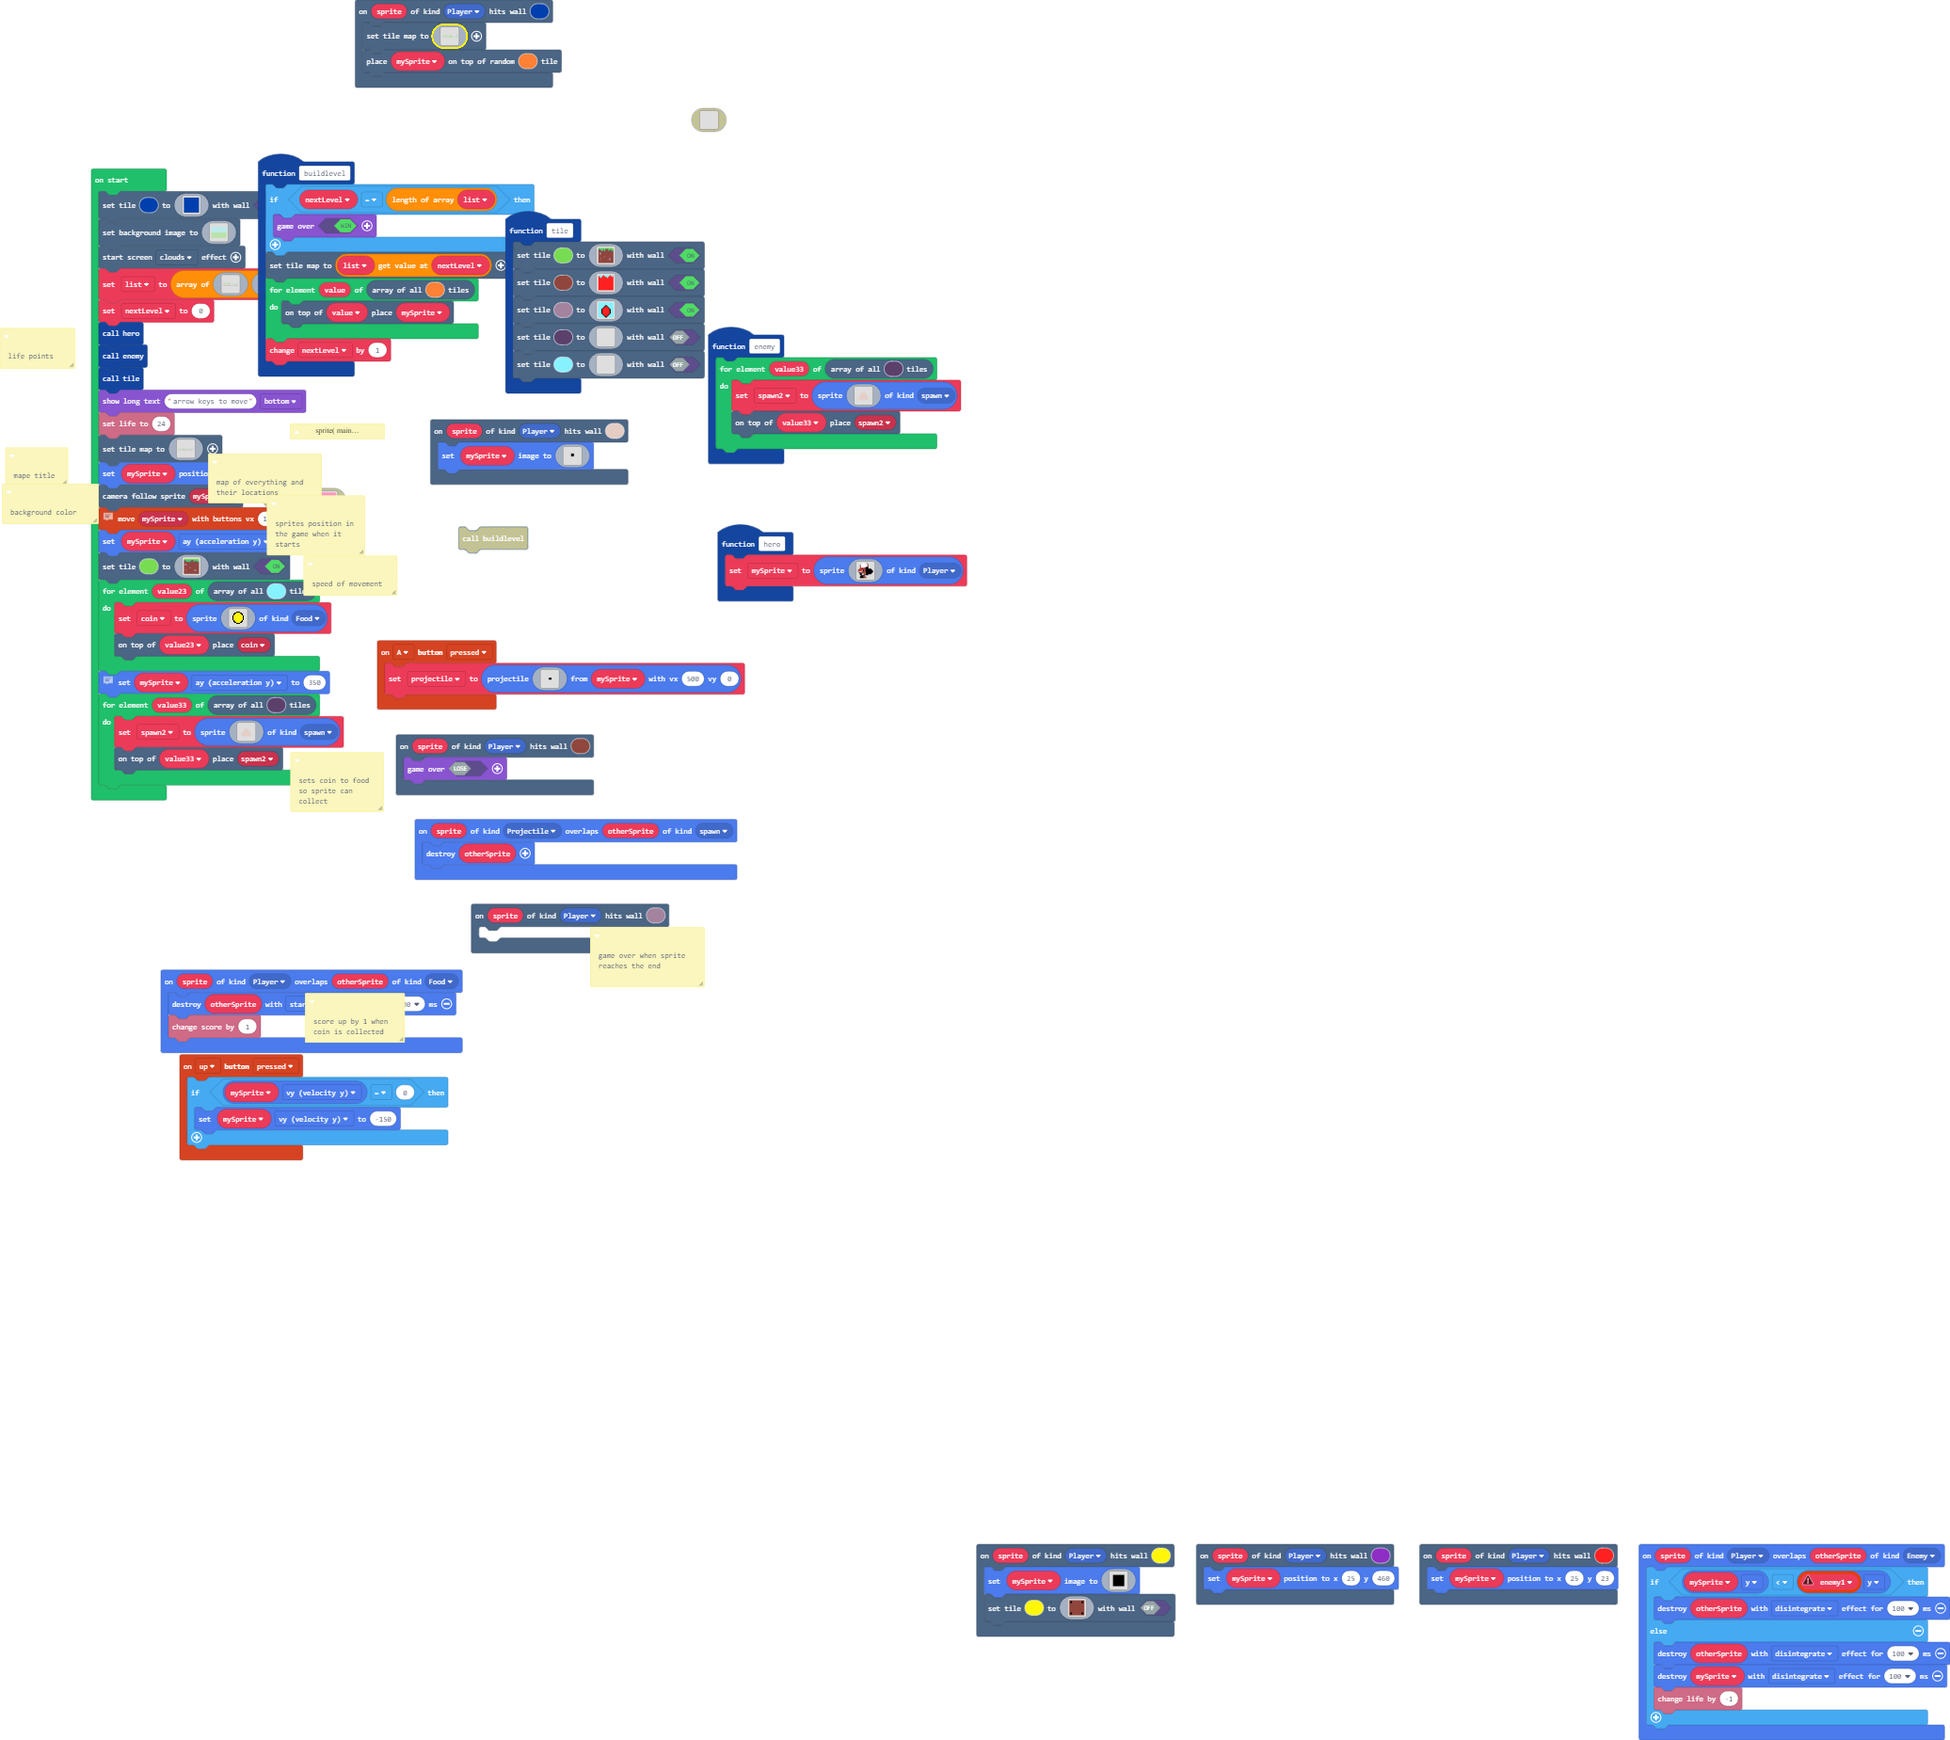
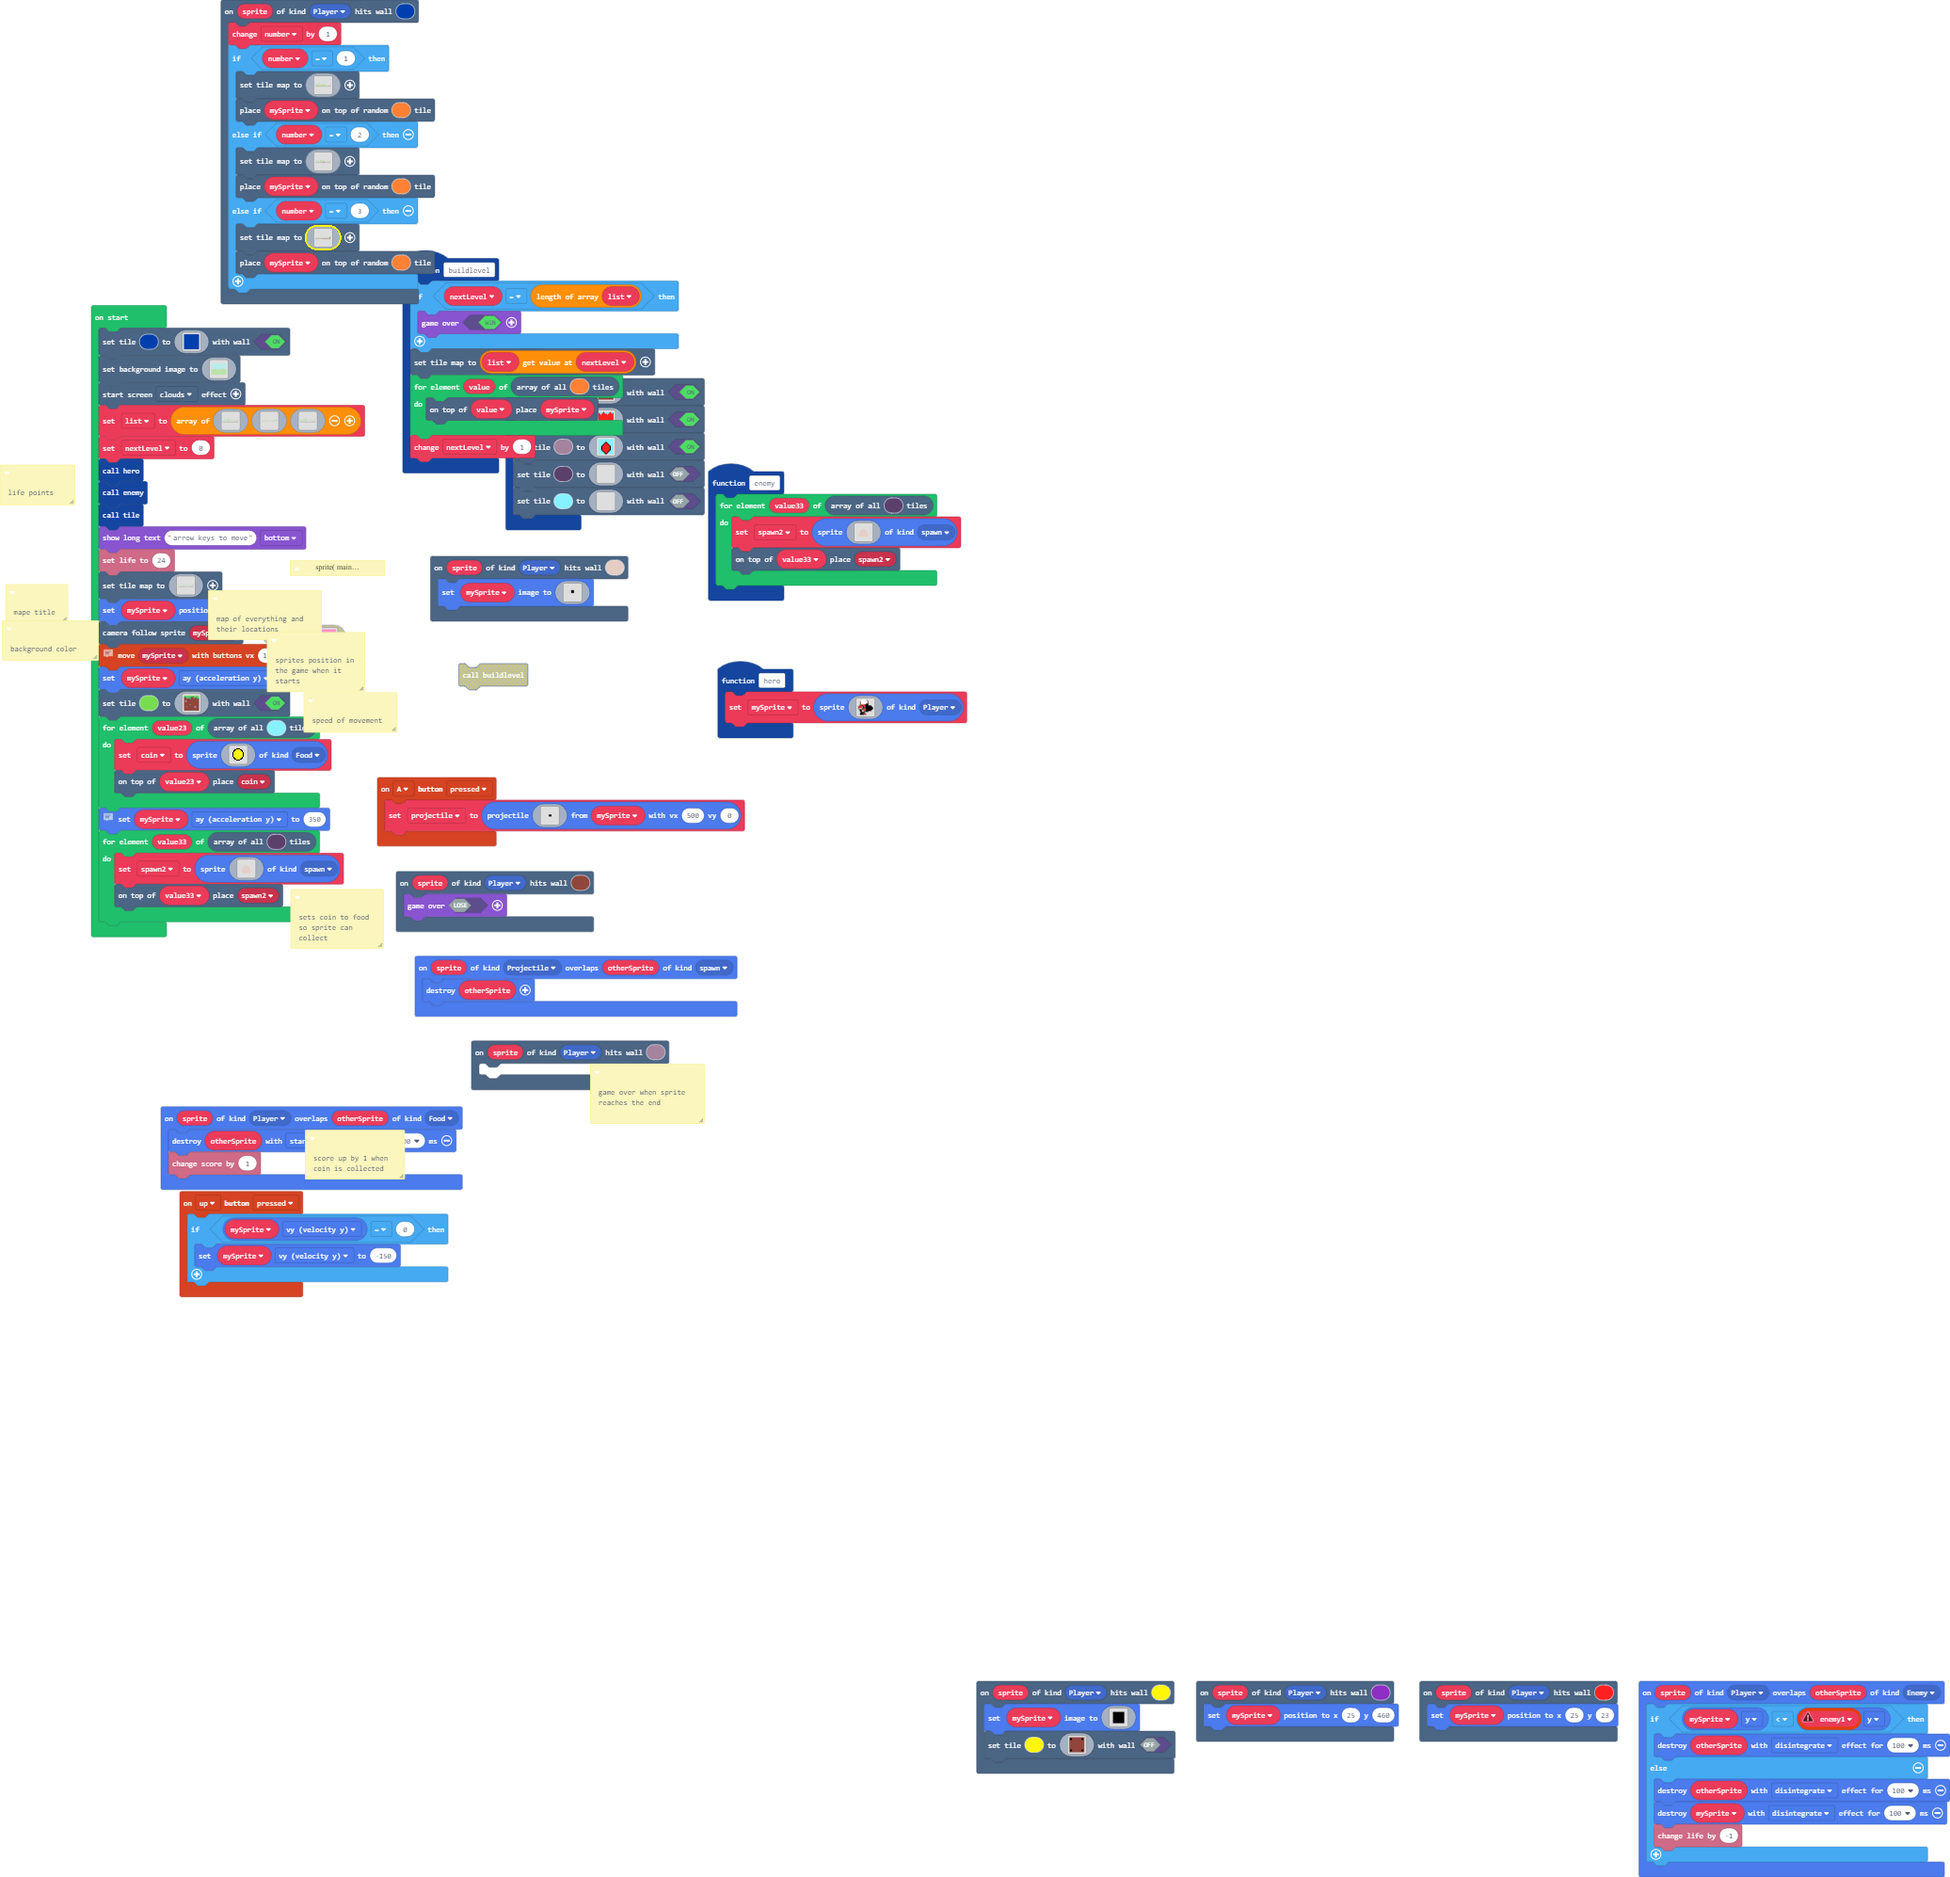
Update main.blocks, main.ts

Changed region(s): [[0.0, 0.0, 0.4942, 0.709], [0.4942, 0.8632, 1.0, 0.9865], [0.3398, 0.0617, 0.3707, 0.0925]]

diff --git a/main.ts b/main.ts
@@ -182,7 +182,9 @@ sprites.onOverlap(SpriteKind.Player, SpriteKind.Food, function (sprite, otherSpr
     info.changeScoreBy(1)
 })
 scene.onHitTile(SpriteKind.Player, 8, function (sprite) {
-    scene.setTileMap(img`
+    number += 1
+    if (number == 1) {
+        scene.setTileMap(img`
 . . . . . . . . . . . . . . . . . . . . . . . . . . . . . . . . . . . . . . . . . . . . . . . . . . . . . . . . . . . 7 
 . . . . . . . . . . . . . . . . . . . . . . . . . . . . . . . . . . . . . . . . . . . . . . . . . . . . . . . . . . . 7 
 . . . . . . . . . . . . . . . 7 7 . . . . . . . . . . . . . . . . . . . . . . . . . . . . . . . . . . . . . . . . . . 7 
@@ -190,14 +192,49 @@ scene.onHitTile(SpriteKind.Player, 8, function (sprite) {
 . . . . . . . . . . 7 7 7 . . . . . . . . . . . 7 7 7 . . . . . 7 7 . 7 7 . . . . . . . . . . . . . . . . . . . . . . 7 
 . . . . . 7 7 7 7 7 7 . . . . . . . 7 . . 7 . . 7 . 7 7 . . . . 7 . . . 7 . . . . . . . . . . . . . . . . . . . . . . 7 
 . 4 . . 7 7 . . . . . . . . 7 7 7 7 7 . . 7 7 7 7 . . 7 . . . 7 7 . . . 7 7 7 . . . . . . . . . . . . . . . . . . . . 7 
-. 7 . . 7 . . . . . . . . 7 . 7 . . . 7 . . 7 7 . . . 7 7 . 7 7 . . . 7 7 . 7 . . . . . . . . . . . . . . . . . . . . 7 
-. 7 . . 7 . . . . . . . 7 . . 7 . . . . 7 . . . . . . . . 7 7 . . . 7 . 7 7 7 7 . . . . . . . . . . . . . . . . 8 . . 7 
-. 7 7 7 7 . . . . . . 7 . . . 7 . . . . . 7 . . . . . . . . . . . . . . 7 7 7 7 7 7 . . . . . . . . . . . . . . 8 . . 7 
-. . . . 7 7 7 7 7 7 7 7 7 7 7 7 7 7 7 . . . . 7 . . . . . . . . . 7 . . 7 7 7 7 7 . 7 . . . 7 . . . 7 7 7 7 7 7 7 . . 7 
-. . . . . . . . . . . . . . . . . . 7 7 . . . . . 7 . . . . . . . . . 7 7 7 7 7 7 . . 7 . 7 . 7 . 7 . . . . . . 7 . . 7 
-. . . . . . . . . . . . . . . . . . . . 7 7 7 7 7 7 7 7 7 7 7 7 7 7 7 7 7 7 7 7 7 . . . 7 . . . 7 . . . . . . . 7 7 7 7 
+. 7 7 . 7 . . . . . . . . 7 . 7 . . . 7 . . 7 7 . . . 7 7 . 7 7 . . . 7 7 . 7 . . . . . . . . . . . . . . . . . . . . 7 
+. 7 e e 7 . . . . . . . 7 . . 7 . . . . 7 . . . . . . . . 7 7 . . . 7 . 7 7 7 7 . . . . . . . . . . . . . . . . 8 . . 7 
+. 7 7 7 7 . . e e e . 7 . . . 7 . . . . . 7 . . . . . . . . . . . . . . 7 7 7 7 7 7 . . . . . . . . . . . . . . 8 . . 7 
+. . . . 7 7 7 7 7 7 7 7 7 7 7 7 7 7 . . . . . 7 . . . . . . . . . 7 . . 7 7 7 7 7 . 7 . . . 7 . . . 7 7 7 7 7 7 7 e e 7 
+. . . . . . . . . . . . . . . . . . 7 . e e e e e 7 e e e e e e e e e 7 7 7 7 7 7 e . 7 . 7 . 7 . 7 . . . . . . 7 e e 7 
+e e e e e e e e e e e e e e e e e e e e 7 7 7 7 7 7 7 7 7 7 7 7 7 7 7 7 7 7 7 7 7 e e e e e e e 7 e e e e e e e 7 7 7 7 
 `)
-    scene.placeOnRandomTile(mySprite, 4)
+        scene.placeOnRandomTile(mySprite, 4)
+    } else if (number == 2) {
+        scene.setTileMap(img`
+. . . . . . . . . . . . . . . . . . . . . . . . . . . . . . . . . . . . . . . . . . . . . . . . . . . . . . . . . . . . 
+. . . . . . . . . . . . . . . . . . . . . . . . . . . . . . . . . . . . . . . . . . . . . . . . . . . . . . . . . . . . 
+. . . . . . . . . . . 7 7 . 7 7 . 7 . 7 7 7 . 7 7 . 7 7 7 . . . . . . . . . . . . . . . . . . . . . . . . . . . . . . . 
+. . . . . . 7 7 . 7 . 7 . . . . . . . . . . . . . . . . . . 7 . . . . . . . . . . . . . . . . . . . . . . . . . . . 8 . 
+. . . . . 7 . . . . . . 9 . . . . . . c . . . . . 9 . . . 7 7 7 . 9 9 . . . . . . . . . . 9 9 9 . . . . . . . . . . 8 . 
+. . 4 . . 7 . . 9 . . . . . 9 . . 7 7 7 7 7 . . 7 7 7 . 7 . 7 . 7 . . . . . 9 . 7 9 9 9 7 . 9 . . . . . . . . 7 . . 7 . 
+. . . . 7 . 9 . . . 7 . . . 7 . . . . . . . . . . . . . . . 7 . . . . c . . . . . 7 . 7 . . . . . . . . 7 . . . . . . . 
+. . . c . . 7 . . . . . . . . . . . . 9 9 . . . c . . 9 . . 7 . 7 . . 7 . . 7 . . . 7 . . . . . . 7 . . . . . . . . . . 
+. 7 7 7 . . . . . . . c . . . . . . . c c . . . 7 . . 7 . . 7 . . . . . . . . . . . . . . . 7 . . . . . . . 7 . c . 7 . 
+. . . . 7 7 . . . . . 7 . . 7 . . . 7 7 7 7 . . . . . . e e 7 e e e e . . . . . . . . . . c . . . . . . c . . . 7 . . . 
+. . . . . . 7 . . . . . . . . . . . . . . . . . . . e e e . 7 . . . e e . . . . . . . . . 7 . 7 . . 7 . 7 . . . . . . . 
+. . . . . . . . . 7 . . . . . . . . . . . . . . . e e . . . 7 . . . . e e e . . . . . . . . . . . . . . . . . . . . . . 
+e e e e e e e e e e e e e e e e e e e e e e e e e e e e e e e e e e e e e e e e e e e e e e e e e e e e e e e e e e e e 
+`)
+        scene.placeOnRandomTile(mySprite, 4)
+    } else if (number == 3) {
+        scene.setTileMap(img`
+. . . . . . . . . . . . . . . . . . . . . . . . . . . . . . . . . . . . . . . . . . . . . . . . . . . . . . . . . . . . 
+. . . . . . . . . . . . . . . . . . . . . . . . . . . . . . . . . . . . . . . . . . . . . . . . . . . . . . . . . . . . 
+. . . . . . . . . . . . . . . . . . . . . . . . . . . . . . . . . . . . . . . . . . . . . . . . . . . . . . . . . . . . 
+. . . . . . . . . . . . . . . . . . . . . . . . . . . . . . . . . . . . . . . . . . . . . . . . . . . . . . . . . . . . 
+. . . . . . . . . . . . . . . . . . . . . . . . . . . . . . . . . . . . . . . . . . . . . . . . . . . . . . . . . . . . 
+. . . . . . . . . . . . . . . . . . . . . . . . . . . . . . . . . . . . . . . . . . . . . . . . . . . . . . . . 8 8 . e 
+. . . . . . . . . . 7 . . 7 . . . . . . . . . . . . . . . . . . . . . . . . . 7 . . 7 . . . . . . . . . . . . . 8 8 e e 
+. . . . . . . . . 7 . . . . 7 7 7 7 7 7 . . 7 7 7 7 7 7 7 7 . . . . . . . . 7 . 7 . . 7 7 7 7 7 7 . . 7 . . 7 7 7 . e e 
+. . . . . 7 7 7 7 . . 7 . . . . . . . 7 . 7 . . . . . . . . 7 . . . . . . 7 . . . 7 7 7 . . . . 7 7 7 7 7 7 7 . . e e e 
+. . 4 . 7 7 . . . . . 7 . . . . . . . 7 7 7 . . . . . . . . . 7 . . 7 . . . . . . . . . . . . . . . . . . . . e e e e e 
+. 7 7 7 . . . . . . 7 . 7 . . . . . . . . . . . . . . . . . . . e e . . 7 . . . . . . . . . . . . . . . . e e e e e e e 
+e e e . . . . . . 7 . . . 7 . 7 . 7 . . . . . . . . e e e e e e e e e e e e e e e e e e e e e e e e e e . e e e e e e e 
+e e e e e e e e e e e e e e e e e e e e e e e e e e e e e e e e e e e e e e e e e e e e e e e e e e e e e e e e e e e e 
+`)
+        scene.placeOnRandomTile(mySprite, 4)
+    }
 })
 scene.onHitTile(SpriteKind.Player, 5, function (sprite) {
     mySprite.setImage(img`
@@ -331,6 +368,7 @@ controller.up.onEvent(ControllerButtonEvent.Pressed, function () {
  * sets coin to food so sprite can collect
  */
 let projectile: Sprite = null
+let number = 0
 let spawn2: Sprite = null
 let coin: Sprite = null
 let mySprite: Sprite = null
@@ -479,17 +517,17 @@ scene.setBackgroundImage(img`
 effects.clouds.startScreenEffect()
 list = [img`
 . . . . . . . . . . . . . . . . . . . . . . . . . . . . . . . . . . . . . . . . . . . . . . . . . . . . . . . . . . . . 
-. . . . . . . . . . . . . . . . . . . . . . . . . . . . . . . . . . . . . . . . . . . . . . . . . . . . . . . . . . . . 
-. . . . . . . . . . . 7 7 . 7 7 . 7 . 7 7 7 . 7 7 . 7 7 7 . . . . . . . . . . . . . . . . . . . . . . . . . . . . . . . 
-. . . . . . 7 7 . 7 . 7 . . . . . . . . . . . . . . . . . . . . . . . . . . . . . . . . . . . . . . . . . . . . . . 8 . 
-. . . . . 7 . . . . . . 9 . . . . . . c . . . . . 9 . . . . . . . 9 9 . . . . . . . . . . 9 9 9 . . . . . . . . . . 8 . 
-. . 4 . . 7 . . 9 . . . . . 9 . . 7 7 7 7 7 . . 7 7 7 . . . . . . . . . . . 9 . 7 9 9 9 7 . 9 . . . . . . . . 7 . . 7 . 
-. . . . 7 . 9 . . . 7 . . . 7 . . . . . . . . . . . . . . . . . . . . c . . . . . 7 . 7 . . . . . . . . 7 . . . . . . . 
+. . . . . . . . . . . . . . . . . . . . . . . . . . . . . . 7 . . . . . . . . . . . . . . . . . . . . . . . . . . . . . 
+. . . . . . . . . . . 7 7 . 7 7 . 7 . 7 7 7 . 7 7 . 7 7 7 . 7 . . . . . . . . . . . . . . . . . . . . . . . . . . . . . 
+. . . . . . 7 7 . 7 . 7 . . . . . . . . . . . . . . . . . . 7 . . . . . . . . . . . . . . . . . . . . . . . . . . . 8 . 
+. . . . . 7 . . . . . . 9 . . . . . . c . . . . . 9 . . . . 7 . . 9 9 . . . . . . . . . . 9 9 9 . . . . . . . . . . 8 . 
+. . 4 . . 7 . . 9 . . . . . 9 . . 7 7 7 7 7 . . 7 7 7 . . . 7 . . . . . . . 9 . 7 9 9 9 7 . 9 . . . . . . . . 7 . . 7 . 
+. . . . 7 . 9 . . . 7 . . . 7 . . . . . . . . . . . . . . . 7 . . . . c . . . . . 7 . 7 . . . . . . . . 7 . . . . . . . 
 . . . c . . 7 . . . . . . . . . . . . 9 9 . . . c . . 9 . . 7 . 7 . . 7 . . 7 . . . 7 . . . . . . 7 . . . . . . . . . . 
-. 7 7 7 . . . . . . . c . . . . . . . c c . . . 7 . . 7 . . . . . . . . . . . . . . . . . . 7 . . . . . . . 7 . c . 7 . 
-. . . . 7 7 . . . . . 7 . . 7 . . . 7 7 7 7 . . . . . . . . . . . . . . . . . . . . . . . c . . . . . . c . . . 7 . . . 
-. . . . . . 7 . . . . . . . . . . . . . . . . . . . . . . . . . . . . . . . . . . . . . . 7 . 7 . . 7 . 7 . . . . . . . 
-. . . . . . . . . 7 . . . . . . . . . . . . . . . . . . . . . . . . . . . . . . . . . . . . . . . . . . . . . . . . . . 
+. 7 7 7 . . . . . . . c . . . . . . . c c . . . 7 . . 7 . . 7 . . . . . . . . . . . . . . . 7 . . . . . . . 7 . c . 7 . 
+. . . . 7 7 . . . . . 7 . . 7 . . . 7 7 7 7 . . . . . . . . 7 . . . . . . . . . . . . . . c . . . . . . c . . . 7 . . . 
+. . . . . . 7 . . . . . . . . . . . . . . . . . . . . . . . 7 . . . . . . . . . . . . . . 7 . 7 . . 7 . 7 . . . . . . . 
+. . . . . . . . . 7 . . . . . . . . . . . . . . . . . . . . 7 . . . . . . . . . . . . . . . . . . . . . . . . . . . . . 
 e e e e e e e e e e e e e e e e e e e e e e e e e e e e e e e e e e e e e e e e e e e e e e e e e e e e e e e e e e e e 
 `, img`
 . . . . . . . . . . . . . . . . . . . . . . . . . . . . . . . . . . . . . . . . . . . . . . . . . . . . . . . . . . . . 
@@ -505,6 +543,20 @@ e e e e e e e e e e e e e e e e e e e e e e e e e e e e e e e e e e e e e e e e 
 . . . 7 . . . . . . 7 . 7 . . . . . . . . . . . . . . . . . . . . . . . 7 . . . . . . . . . . . . . . . . . . . . . . . 
 . . . . . . . . . 7 . . . 7 . . . . . . . . . . . . . . . . . . . . . . . . . . . . . . . . . . . . . . . . . . . . . . 
 . . . . . . . . . . . . . . . . . . . . . . . . . . . . . . . . . . . . . . . . . . . . . . . . . . . . . . . . . . . . 
+`, img`
+. . . . . . . . . . . . . . . . . . . . . . . . . . . . . . . . . . . . . . . . . . . . . . . . . . . . . . . . . . . . 
+. . . . . . . . . . . . . . . . . . . . . . . . . . . . . . . . . . . . . . . . . . . . . . . . . . . . . . . . . . . . 
+. . . . . . . . . . . 7 7 . 7 7 . 7 . 7 7 7 . 7 7 . 7 7 7 . . . . . . . . . . . . . . . . . . . . . . . . . . . . . . . 
+. . . . . . 7 7 . 7 . 7 . . . . . . . . . . . . . . . . . . . . . . . . . . . . . . . . . . . . . . . . . . . . . . 8 . 
+. . . . . 7 . . . . . . 9 . . . . . . c . . . . . 9 . . . . . . . 9 9 . . . . . . . . . . 9 9 9 . . . . . . . . . . 8 . 
+. . 4 . . 7 . . 9 . . . . . 9 . . 7 7 7 7 7 . . 7 7 7 . . . . . . . . . . . 9 . 7 9 9 9 7 . 9 . . . . . . . . 7 . . 7 . 
+. . . . 7 . 9 . . . 7 . . . 7 . . . . . . . . . . . . . . . . . . . . c . . . . . 7 . 7 . . . . . . . . 7 . . . . . . . 
+. . . c . . 7 . . . . . . . . . . . . 9 9 . . . c . . 9 . . 7 . 7 . . 7 . . 7 . . . 7 . . . . . . 7 . . . . . . . . . . 
+. 7 7 7 . . . . . . . c . . . . . . . c c . . . 7 . . 7 . . . . . . . . . . . . . . . . . . 7 . . . . . . . 7 . c . 7 . 
+. . . . 7 7 . . . . . 7 . . 7 . . . 7 7 7 7 . . . . . . . . . . . . . . . . . . . . . . . c . . . . . . c . . . 7 . . . 
+. . . . . . 7 . . . . . . . . . . . . . . . . . . . . . . . . . . . . . . . . . . . . . . 7 . 7 . . 7 . 7 . . . . . . . 
+. . . . . . . . . 7 . . . . . . . . . . . . . . . . . . . . . . . . . . . . . . . . . . . . . . . . . . . . . . . . . . 
+e e e e e e e e e e e e e e e e e e e e e e e e e e e e e e e e e e e e e e e e e e e e e e e e e e e e e e e e e e e e 
 `]
 nextLevel = 0
 hero()
